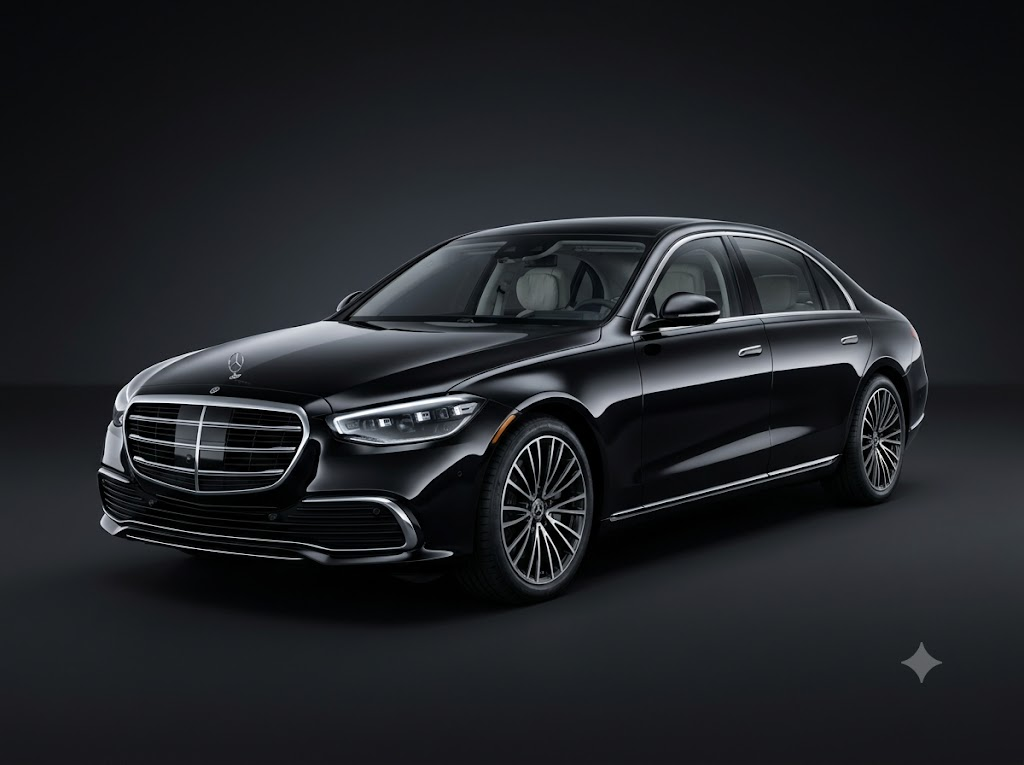
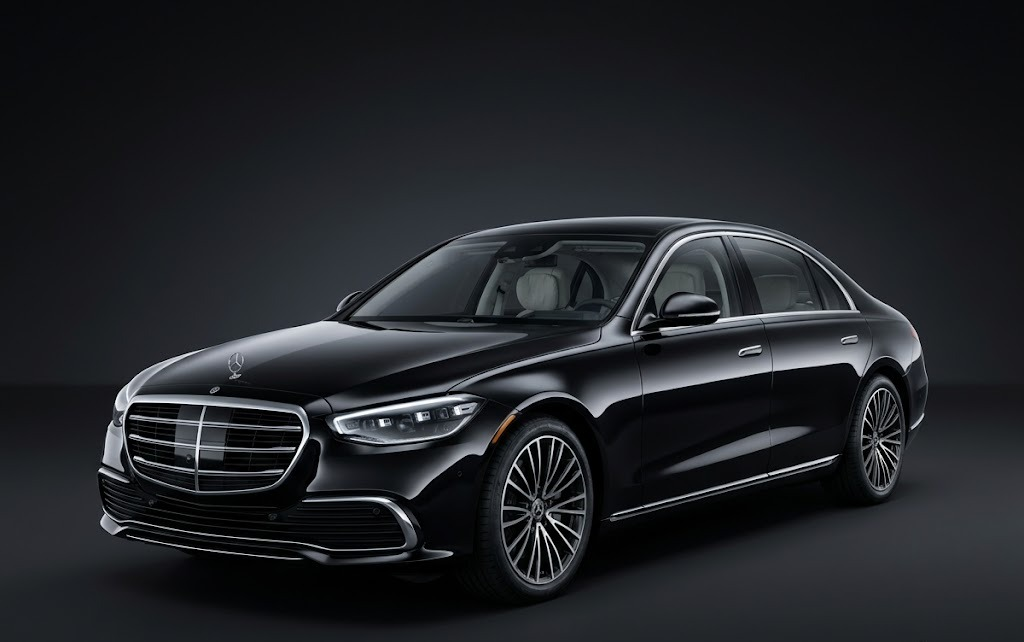
assets: S-Klasse + 4 hizmet görseli (filigran kırpıldı)
- fleet-first.jpg (S-Klasse studio)
- service-airport/event/corporate/hourly.jpg
- Gemini filigranı alt+sağ köşeden kırpılarak temizlendi
- Orijinaller _orijinal/ (gitignore)

Changed region(s): [[0.0938, 0.2804, 1.0, 0.9657], [0.875, 0.81, 1.0, 0.9034], [0.0, 0.6231, 0.0312, 0.6542]]

diff --git a/public/images/GORSEL-PROMPTLARI.md b/public/images/GORSEL-PROMPTLARI.md
@@ -79,7 +79,7 @@ premium mood, charcoal and silver tones. No text, no watermark. 3:2 aspect ratio
 ## 8) service-event.jpg  (Etkinlik & VIP limuzin, 3:2)
 
 ```
-A cinematic photo of a black Mercedes-Benz limousine parked in front of an
+A cinematic photo of a black Mercedes-Benz  S-Class sedan parked in front of an
 elegant illuminated venue at night, red-carpet gala atmosphere, refined and
 exclusive, charcoal and silver tones. No text, no watermark. 3:2 aspect ratio.
 ```
